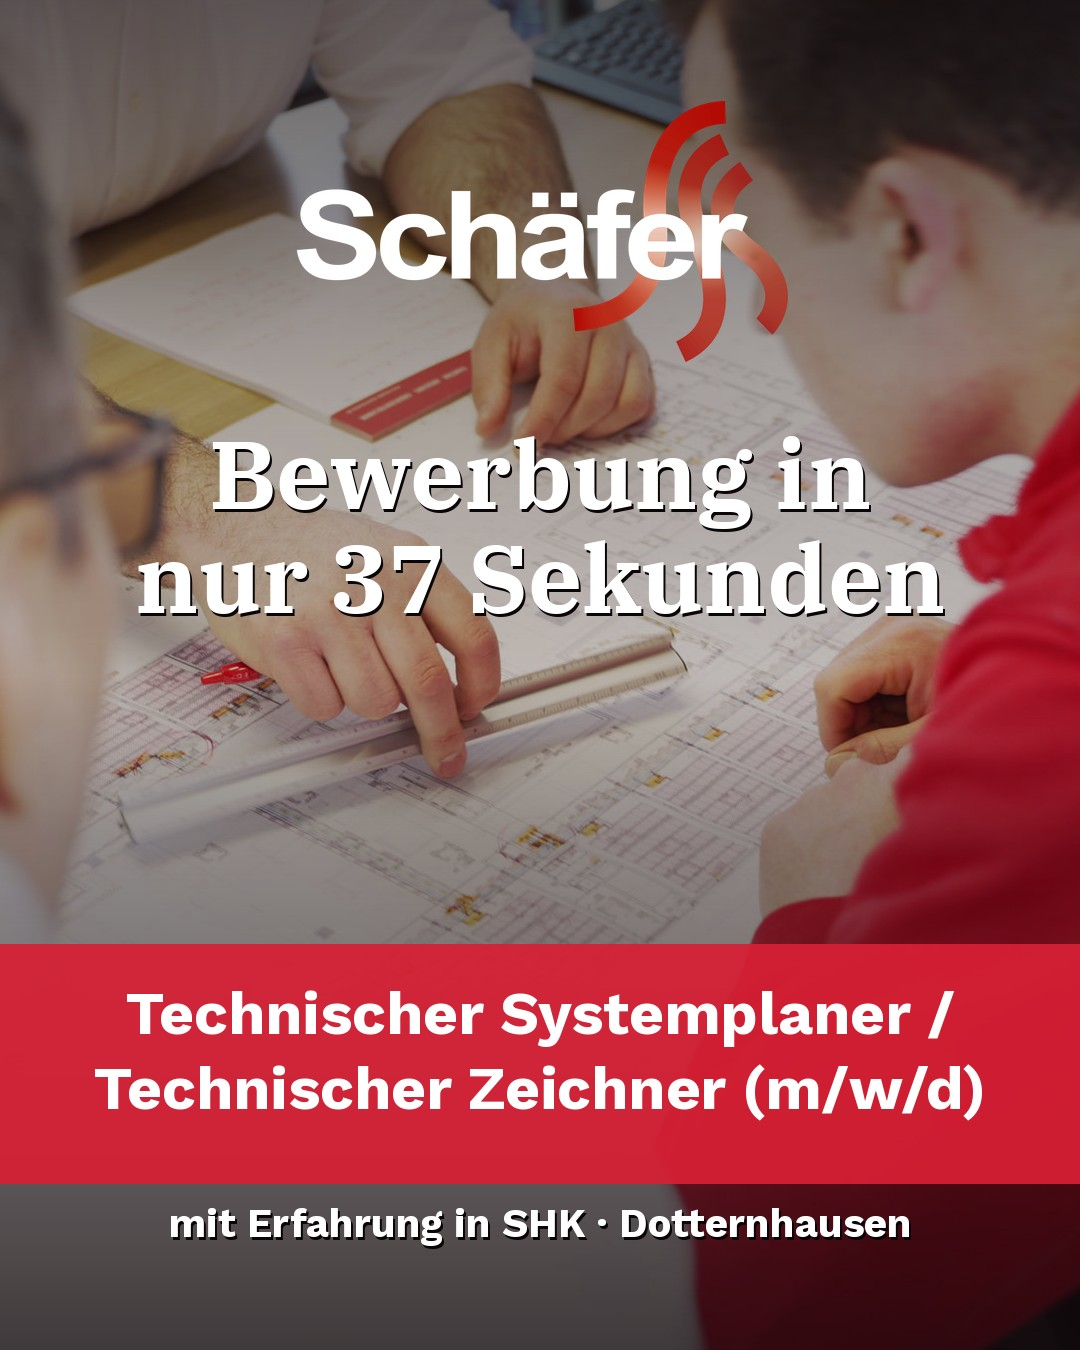
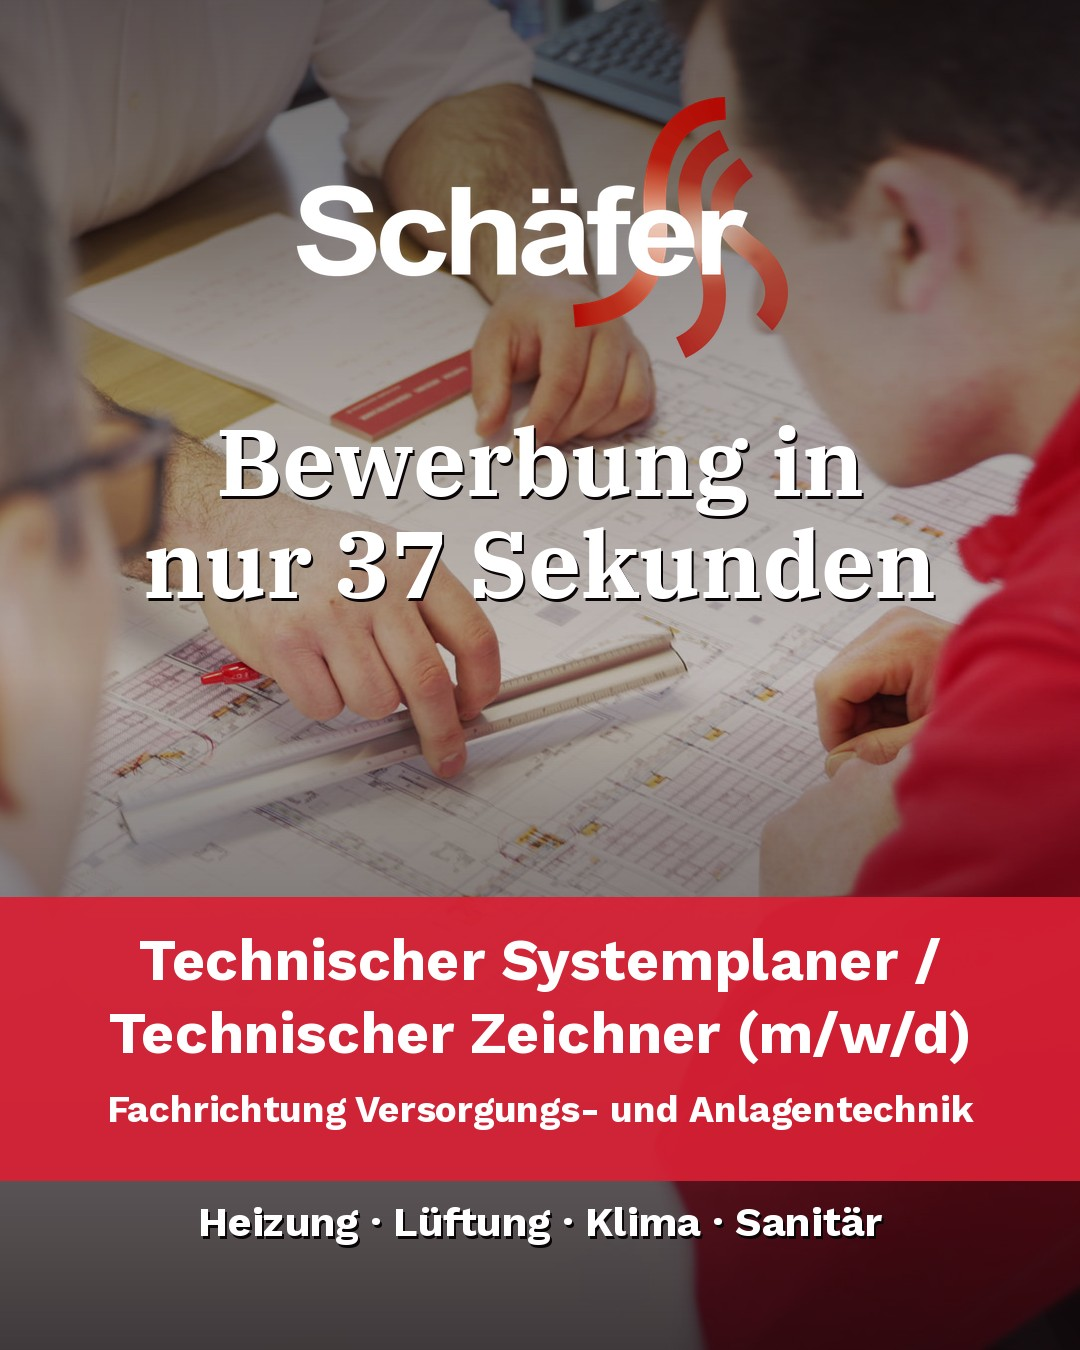
Creatives & Seite: Fachrichtung Versorgungs- und Anlagentechnik deutlicher + HLK/Sanitär
- Creatives: rote Leiste zusätzlich mit 'Fachrichtung Versorgungs- und
  Anlagentechnik', Subline jetzt 'Heizung · Lüftung · Klima · Sanitär'
- Stellenkarte: Untertitel + Tag Versorgungs- & Anlagentechnik
- Interesse-Wert & JobPosting-Titel entsprechend erweitert
- Generator-Skript tools_gen_creatives.py ergänzt

Claude-Session: https://claude.ai/code/session_0195Z1PjpkPHucqAk5ooUwCA

diff --git a/index.html b/index.html
@@ -31,8 +31,8 @@
   "@graph": [
     {
       "@type": "JobPosting",
-      "title": "Technischer Systemplaner / Technischer Zeichner (m/w/d)",
-      "description": "Unterstützung der Projektleiter beim Entwerfen und Planen von Systemen der Technischen Gebäudeausrüstung, Erstellung modellbasierter Planungen mit AutoCAD/Revit bzw. PlanCal Nova, Anfertigung intelligenter Gebäudemodelle, technische Berechnungen sowie Detail-, Montage- und Revisionspläne für Sanitär-, Heizungs- und Lüftungsanlagen inkl. Materiallisten und Massenauszügen. Vollzeit in Dotternhausen.",
+      "title": "Technischer Systemplaner / Technischer Zeichner (m/w/d) – Fachrichtung Versorgungs- und Anlagentechnik",
+      "description": "Technischer Systemplaner / Technischer Zeichner (m/w/d) der Fachrichtung Versorgungs- und Anlagentechnik (Heizung, Lüftung, Klima, Sanitär): Unterstützung der Projektleiter beim Entwerfen und Planen von Systemen der Technischen Gebäudeausrüstung, Erstellung modellbasierter Planungen mit AutoCAD/Revit bzw. PlanCal Nova, Anfertigung intelligenter Gebäudemodelle, technische Berechnungen sowie Detail-, Montage- und Revisionspläne inkl. Materiallisten und Massenauszügen. Vollzeit in Dotternhausen.",
       "datePosted": "2026-08-23",
       "employmentType": "FULL_TIME",
       "hiringOrganization": { "@type": "Organization", "name": "Schäfer intelligente Haustechnik GmbH", "sameAs": "https://www.schaefer-dotternhausen.de/" },
@@ -153,6 +153,7 @@ section[id],.form-card{scroll-margin-top:80px}
 .job__icon{width:50px;height:50px;border-radius:13px;display:grid;place-items:center;background:var(--brand-soft);border:1px solid var(--line-strong);margin-bottom:18px}
 .job__icon svg{width:25px;height:25px;stroke:var(--brand)}
 .job h3{font-size:20px;margin-bottom:4px}
+.job__sub{font-size:13.5px;font-weight:700;color:var(--brand-700);margin-top:4px}
 .job__meta{display:flex;gap:7px;flex-wrap:wrap;margin:12px 0 18px}
 .tag{font-size:11.5px;font-weight:800;color:var(--brand-700);background:var(--brand-soft);border:1px solid var(--line);padding:5px 10px;border-radius:999px}
 .job h4{font-size:12.5px;font-weight:900;letter-spacing:.05em;text-transform:uppercase;color:var(--ink-mute);margin-bottom:8px}
@@ -436,7 +437,8 @@ footer{padding:52px 0 36px;background:var(--brand-900);color:#c8ccd3}
       <article class="job reveal">
         <div class="job__icon" aria-hidden="true"><svg viewBox="0 0 24 24" fill="none" stroke-width="1.8" stroke-linecap="round" stroke-linejoin="round"><path d="M12 20h9"/><path d="M16.5 3.5a2.12 2.12 0 0 1 3 3L7 19l-4 1 1-4z"/></svg></div>
         <h3>Technischer Systemplaner / Technischer Zeichner (m/w/d)</h3>
-        <div class="job__meta"><span class="tag">Vollzeit</span><span class="tag">Festanstellung</span><span class="tag">Revit · PlanCal Nova</span><span class="tag">SHK</span></div>
+        <p class="job__sub">Fachrichtung Versorgungs- und Anlagentechnik · Heizung · Lüftung · Klima · Sanitär</p>
+        <div class="job__meta"><span class="tag">Vollzeit</span><span class="tag">Festanstellung</span><span class="tag">Versorgungs- &amp; Anlagentechnik</span><span class="tag">Revit · PlanCal Nova</span></div>
         <h4>Deine Aufgaben</h4>
         <ul>
           <li>Unterstützung der Projektleiter beim Entwerfen &amp; Planen von Systemen der Technischen Gebäudeausrüstung</li>
@@ -900,7 +902,7 @@ footer{padding:52px 0 36px;background:var(--brand-900);color:#c8ccd3}
     return attempt().catch(function(){ return attempt().catch(function(){ var e=new Error("upload_failed"); e.isUploadError=true; throw e; }); });
   }
 
-  var INTERESSE = "Technischer Systemplaner / Technischer Zeichner (m/w/d)";
+  var INTERESSE = "Technischer Systemplaner / Technischer Zeichner (m/w/d) – Fachrichtung Versorgungs- und Anlagentechnik";
   function collect(){
     function val(name){ var c=form.querySelector('input[name="'+name+'"]:checked'); if(c) return c.value; var el=form.querySelector('[name="'+name+'"]'); return el?String(el.value).trim():""; }
     /* Feld-Keys exakt wie die LeadTable-Spalten – sonst landen die Werte nicht

diff --git a/tools_gen_creatives.py b/tools_gen_creatives.py
@@ -1,0 +1,95 @@
+#!/usr/bin/env python3
+import os
+from PIL import Image, ImageDraw, ImageFont
+
+FONT_DIR = "/mnt/skills/examples/canvas-design/canvas-fonts"
+SERIF = os.path.join(FONT_DIR, "IBMPlexSerif-Bold.ttf")
+SANS  = os.path.join(FONT_DIR, "WorkSans-Bold.ttf")
+BILDER = "/home/user/schaefer-dotternhausen/bilder"
+OUT = "/home/user/schaefer-dotternhausen/creatives"
+os.makedirs(OUT, exist_ok=True)
+
+RED = (216, 31, 52)
+LOGO = Image.open(os.path.join(BILDER, "schaefer-logo-weiss.png")).convert("RGBA")
+
+def f(path, size): return ImageFont.truetype(path, size)
+
+def cover(img, W, H):
+    iw, ih = img.size
+    s = max(W/iw, H/ih)
+    img = img.resize((int(iw*s+1), int(ih*s+1)), Image.LANCZOS)
+    nw, nh = img.size
+    x = (nw-W)//2; y = (nh-H)//2
+    return img.crop((x, y, x+W, y+H))
+
+def vgrad(W, H, stops):
+    g = Image.new("L", (1, H), 0); px = g.load()
+    for y in range(H):
+        t = y/(H-1); a = stops[-1][1]
+        for i in range(len(stops)-1):
+            p0, a0 = stops[i]; p1, a1 = stops[i+1]
+            if p0 <= t <= p1:
+                k = (t-p0)/(p1-p0) if p1 > p0 else 0
+                a = a0 + (a1-a0)*k; break
+        px[0, y] = int(a)
+    overlay = Image.new("RGBA", (W, H), (18, 9, 11, 255))
+    overlay.putalpha(g.resize((W, H)))
+    return overlay
+
+def center(draw, cx, y, lines, font, fill, lh, shadow=True):
+    for ln in lines:
+        bb = draw.textbbox((0, 0), ln, font=font)
+        w = bb[2]-bb[0]
+        x = cx - w/2 - bb[0]; yy = y - bb[1]
+        if shadow: draw.text((x+2, yy+3), ln, font=font, fill=(10, 5, 6, 170))
+        draw.text((x, yy), ln, font=font, fill=fill)
+        y += lh
+    return y
+
+def make(photo, size, out, headline, pos_lines, fach, sub):
+    W, H = size
+    base = cover(Image.open(os.path.join(BILDER, photo)).convert("RGB"), W, H).convert("RGBA")
+    base = Image.alpha_composite(base, vgrad(W, H, [(0.0,165),(0.28,95),(0.5,70),(0.6,120),(1.0,205)]))
+    d = ImageDraw.Draw(base); u = W/1080.0
+
+    # Logo
+    lw = int(W*0.46); lh = int(lw*LOGO.height/LOGO.width)
+    base.alpha_composite(LOGO.resize((lw, lh), Image.LANCZOS), ((W-lw)//2, int(H*0.072)))
+    ly = int(H*0.072)+lh
+
+    # Headline
+    hf = f(SERIF, int(94*u))
+    center(d, W//2, ly+int(H*0.05), headline, hf, (255,255,255,255), int(102*u))
+
+    # Band: position (big) + Fachrichtung (klein)
+    pf = f(SANS, int(58*u)); ff = f(SANS, int(37*u))
+    line_h = int(72*u); fach_h = int(46*u)
+    pad = int(40*u); gap = int(14*u)
+    band_h = pad + line_h*len(pos_lines) + gap + fach_h + pad
+    band_y = int(H*0.665)
+    if band_y+band_h > H-int(0.115*H): band_y = H-int(0.115*H)-band_h
+    band = Image.new("RGBA", (W, band_h), RED+(236,))
+    base.alpha_composite(band, (0, band_y))
+    d = ImageDraw.Draw(base)
+    ty = center(d, W//2, band_y+pad, pos_lines, pf, (255,255,255,255), line_h, shadow=False)
+    center(d, W//2, ty+gap, [fach], ff, (255,255,255,245), fach_h, shadow=False)
+
+    # Subline unter dem Band
+    sf = f(SANS, int(41*u))
+    center(d, W//2, band_y+band_h+int(26*u), [sub], sf, (255,255,255,240), int(50*u))
+
+    base.convert("RGB").save(out, quality=90)
+    print("saved", os.path.basename(out), size)
+
+HEAD = ["Bewerbung in", "nur 37 Sekunden"]
+POS  = ["Technischer Systemplaner /", "Technischer Zeichner (m/w/d)"]
+FACH = "Fachrichtung Versorgungs- und Anlagentechnik"
+SUB  = "Heizung · Lüftung · Klima · Sanitär"
+
+jobs = [("schaefer_pv_planung.jpg","planung"), ("schaefer_lueftungstechnik.jpg","technik")]
+formats = {"1x1": (1080,1080), "4x5": (1080,1350), "9x16": (1080,1920)}
+for photo, tag in jobs:
+    for fk, sz in formats.items():
+        if tag == "technik" and fk == "9x16": continue
+        make(photo, sz, os.path.join(OUT, f"creative_{tag}_{fk}.jpg"), HEAD, POS, FACH, SUB)
+print("DONE")
